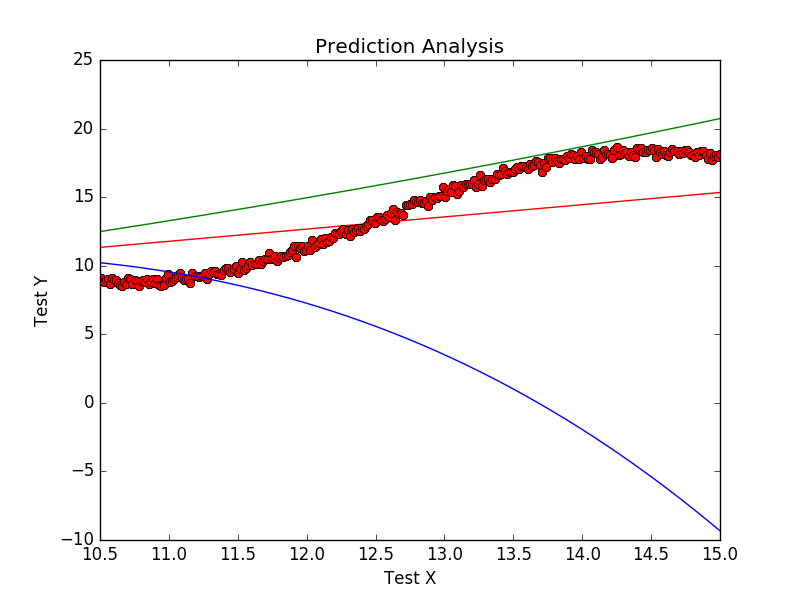
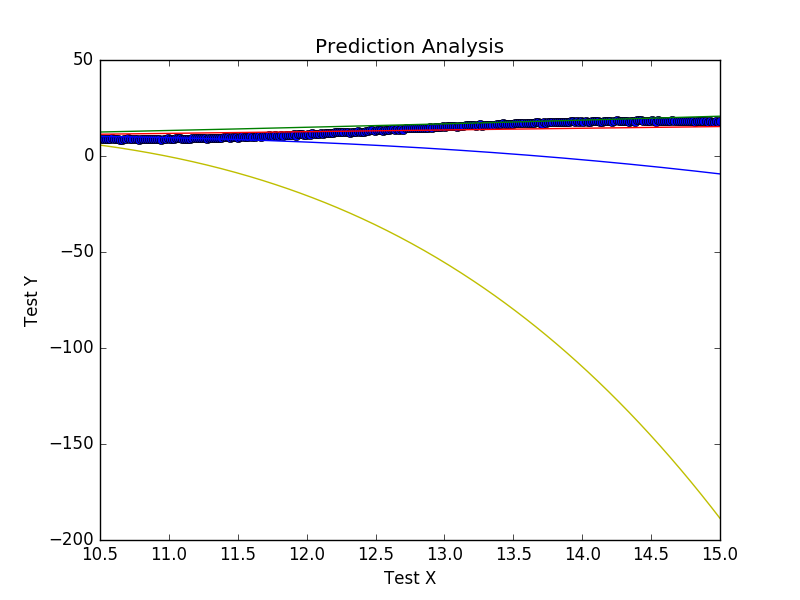
Update code formatting and Poly n=4

diff --git a/overfitting.py b/overfitting.py
@@ -18,42 +18,51 @@ test_X, test_y = X[700:], y[700:]
 train_df = pd.DataFrame({'X': train_X, 'y': train_y})
 test_df = pd.DataFrame({'X': test_X, 'y': test_y})
 
-# Linear Fit
+# Polynomial n=1 train
 poly_1 = smf.ols(formula='y ~ 1 + X', data=train_df).fit()
-# Quadratic Fit
+# Polynomial n=2 train
 poly_2 = smf.ols(formula='y ~ 1 + X + I(X**2)', data=train_df).fit()
-# Cubic Fit
+# Polynomial n=3 train
 poly_3 = smf.ols(formula='y ~ 1 + X + I(X**2) + I(X**3)', data=train_df).fit()
+# Polynomial n=4 train
+poly_4 = smf.ols(formula='y ~ 1 + X + I(X**2) + I(X**3) + I(X**4)', data=train_df).fit()
 
-# Linear Fit Prediction
+# Polynomial Fit n=1
 pred1 = poly_1.predict(test_df['X'])[700:]
 plt.plot(test_df['X'], test_df['y'], 'o')
-plt.plot(test_df['X'], pred1, 'r', label='Linear')
-mse1 = mean_squared_error(test_df['y'], pred1)
-mse_str1 = "{:.3f}".format(mse1)
-
-# Quadratic Fit Prediction
+plt.plot(test_df['X'], pred1, 'r')
+# Polynomial Fit n=2
 pred2 = poly_2.predict(test_df['X'])[700:]
-plt.plot(test_df['X'], test_df['y'], 'o')
-plt.plot(test_df['X'], pred2, 'g', label='Quadratic')
-mse2 = mean_squared_error(test_df['y'], pred2)
-mse_str2 = "{:.3f}".format(mse2)
-
-# Cubic Fit Prediction
+plt.plot(test_df['X'], pred2, 'g')
+# Polynomial Fit n=3
 pred3 = poly_3.predict(test_df['X'])[700:]
-plt.plot(test_df['X'], test_df['y'], 'o')
-plt.plot(test_df['X'], pred3, 'b', label='Cubic')
+plt.plot(test_df['X'], pred3, 'b')
+# Polynomial Fit n=4
+pred4 = poly_4.predict(test_df['X'])[700:]
+plt.plot(test_df['X'], pred4, 'y')
+
+# Mean Squared Error Calculations
+mse1 = mean_squared_error(test_df['y'], pred1)
+mse2 = mean_squared_error(test_df['y'], pred2)
 mse3 = mean_squared_error(test_df['y'], pred3)
+mse4 = mean_squared_error(test_df['y'], pred4)
+
+# Round down the MSE values
+mse_str1 = "{:.3f}".format(mse1)
+mse_str2 = "{:.3f}".format(mse2)
 mse_str3 = "{:.3f}".format(mse3)
+mse_str4 = "{:.3f}".format(mse4)
 
 # Printed output
 print(poly_1.summary())
 print(poly_2.summary())
-print(poly_2.summary())
+print(poly_3.summary())
+print(poly_4.summary())
+print("Polynomial Fit n=1 MSE = {}".format(mse1))
+print("Polynomial Fit n=2 MSE = {}".format(mse2))
+print("Polynomial Fit n=3 MSE = {}".format(mse3))
+print("Polynomial Fit n=4 MSE = {}".format(mse4))
 
-print("Linear fit MSE = {}".format(mse1))
-print("Linear fit MSE = {}".format(mse2))
-print("Linear fit MSE = {}".format(mse3))
 # Label and save graph
 plt.xlabel("Test X")
 plt.ylabel("Test Y")
